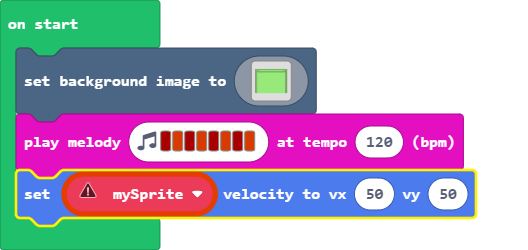
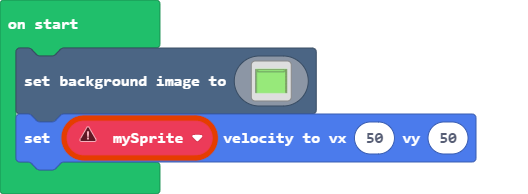
Got rid of annoying sound on project start!

diff --git a/main.ts b/main.ts
@@ -121,5 +121,4 @@ scene.setBackgroundImage(img`
[1 lines of base64/hex data omitted]
     7777777777777777777777777777777777777777777777777777777777777777777777777777777777777777777777777777777777777777777777777777777777777777777777777777777777777777
     `)
-music.playMelody("C5 B C5 B C5 B C5 B ", 120)
 mySprite.setVelocity(50, 50)
